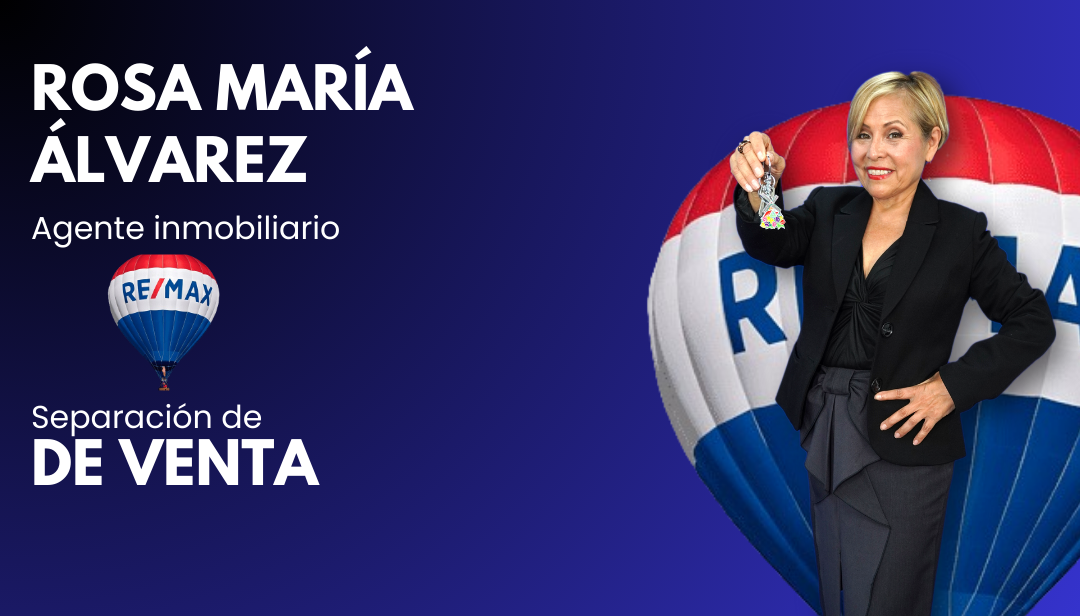
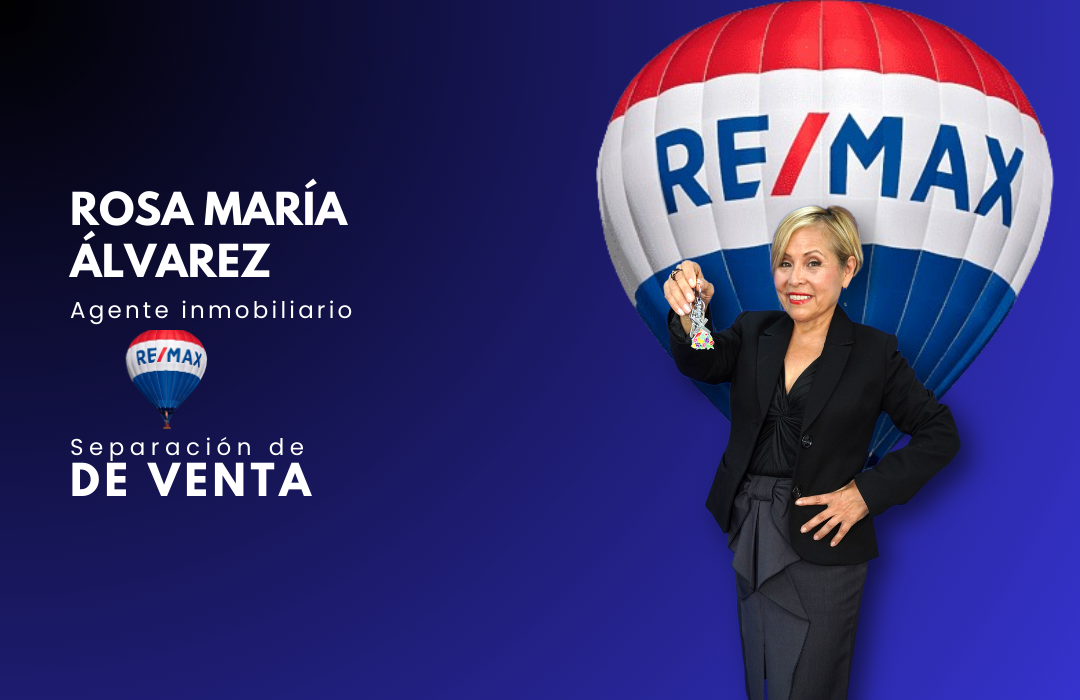
updated cover image styles

diff --git a/src/components/Header/Header.styles.ts b/src/components/Header/Header.styles.ts
@@ -13,24 +13,23 @@ export const CoverContainer = styled.div`
   position: relative;
   width: 100%;
   border-radius: 15px;
-  overflow: hidden;
 `;
 
 export const ImageOverlay = styled.div`
   position: absolute;
-  bottom: 0;
+  top: 0;
   left: 0;
   right: 0;
-  height: 100%; /* Adjust the height as necessary */
+  height: 100%;
   background: linear-gradient(to top, rgba(0, 0, 0, 0.7), rgba(0, 0, 0, 0));
-  pointer-events: none; /* Ensures the overlay doesn't block clicks */
+  pointer-events: none;
+  transform: translateY(-7px);
 `;
 
 export const CoverImage = styled.img`
   width: 100%;
   height: 170px;
   object-fit: cover;
-  margin-bottom: 1.2rem;
 `;
 
 export const Title = styled.h1`
@@ -57,7 +56,7 @@ export const Description = styled.span`
 
 export const ProfileImage = styled.img`
   position: absolute;
-  top: 5em;
+  top: 4em;
   left: 50;
   /* transform: translateY(80px); */
   max-width: 130px;

diff --git a/src/components/Header/Header.tsx b/src/components/Header/Header.tsx
@@ -11,14 +11,13 @@ import {
 import ProfilePic from "../../assets/profile_pic.png";
 import { Socials } from "../Socials";
 
-export function Header() {
-  const backImgUrl =
-    "https://www.befunky.com/images/wp/wp-2022-09-Color-Palette-Featured.png?auto=avif,webp&format=jpg&width=1150&crop=16:9";
+import COVER from "../../assets/Cover.png";
 
+export function Header() {
   return (
     <Wrapper>
       <CoverContainer>
-        <CoverImage src={backImgUrl} />
+        <CoverImage src={COVER} />
         <ImageOverlay />
       </CoverContainer>
       <ProfileImage src={ProfilePic} />
